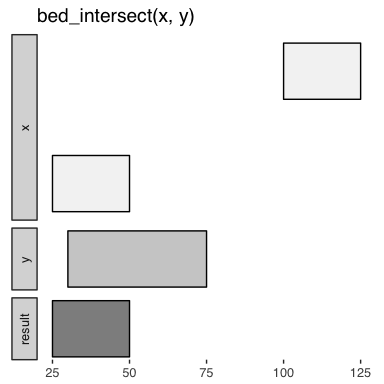
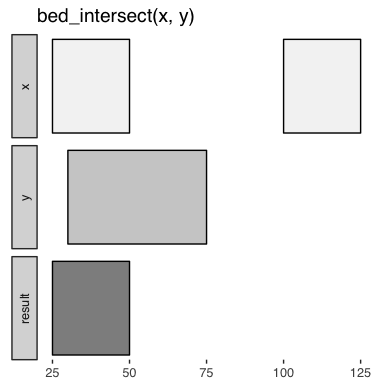
update README and site [ci skip]

diff --git a/docs/index.html b/docs/index.html
@@ -93,10 +93,10 @@ devtools<span class="op">::</span><span class="kw">install_github</span>(<span c
 <a href="#why-valr" class="anchor"></a>Why <code>valr</code>?</h2>
 <p><strong>Why another tool set for interval manipulations?</strong> Based on our experience teaching genome analysis, we were motivated to develop interval arithmetic software that faciliates genome analysis in a single environment (RStudio), eliminating the need to master both command-line and exploratory analysis tools.</p>
 <p><strong>Note:</strong> <code>valr</code> can currently be used for analysis of pre-processed data in BED and related formats. We plan to support BAM and VCF files soon via tabix indexes.</p>
-<div id="familiar-tools-all-within-r" class="section level3">
+<div id="familiar-tools-natively-in-r" class="section level3">
 <h3 class="hasAnchor">
-<a href="#familiar-tools-all-within-r" class="anchor"></a>Familiar tools, all within R</h3>
-<p>The functions in <code>valr</code> have similar names to their <code>BEDtools</code> counterparts, and so will be familiar to users coming from the <code>BEDtools</code> suite. Similar to <a href="https://daler.github.io/pybedtools/#why-pybedtools"><code>pybedtools</code></a>, <code>valr</code> has a terse syntax:</p>
+<a href="#familiar-tools-natively-in-r" class="anchor"></a>Familiar tools, natively in R</h3>
+<p>The functions in <code>valr</code> have similar names to their <code>BEDtools</code> counterparts, and so will be familiar to users coming from the <code>BEDtools</code> suite. Unlike other tools that wrap <code>BEDtools</code> and write temporary files to disk, <code>valr</code> tools run natively in memory. Similar to <a href="https://daler.github.io/pybedtools/#why-pybedtools"><code>pybedtools</code></a>, <code>valr</code> has a terse syntax:</p>
 <div class="sourceCode"><pre class="sourceCode r"><code class="sourceCode r"><span class="kw">library</span>(valr)
 <span class="kw">library</span>(dplyr)
 
@@ -110,12 +110,40 @@ nearby &lt;-<span class="st"> </span><span class="kw"><a href="reference/bed_clo
 
 nearby <span class="op">%&gt;%</span>
 <span class="st">  </span><span class="kw">select</span>(<span class="kw">starts_with</span>(<span class="st">'name'</span>), .overlap, .dist) <span class="op">%&gt;%</span>
-<span class="st">  </span><span class="kw">filter</span>(<span class="kw">abs</span>(.dist) <span class="op">&lt;</span><span class="st"> </span><span class="dv">5000</span>)</code></pre></div>
+<span class="st">  </span><span class="kw">filter</span>(<span class="kw">abs</span>(.dist) <span class="op">&lt;</span><span class="st"> </span><span class="dv">5000</span>)
+<span class="co">#&gt; # A tibble: 1,047 x 4</span>
+<span class="co">#&gt;         name.x   name.y .overlap .dist</span>
+<span class="co">#&gt;          &lt;chr&gt;    &lt;chr&gt;    &lt;int&gt; &lt;int&gt;</span>
+<span class="co">#&gt;  1 rs530458610    P704P        0  2578</span>
+<span class="co">#&gt;  2   rs2261631    P704P        0  -267</span>
+<span class="co">#&gt;  3 rs570770556    POTEH        0  -912</span>
+<span class="co">#&gt;  4 rs538163832    POTEH        0  -952</span>
+<span class="co">#&gt;  5 rs190224195    POTEH        0 -1398</span>
+<span class="co">#&gt;  6   rs2379966 DQ571479        0  4749</span>
+<span class="co">#&gt;  7 rs142687051 DQ571479        0  3557</span>
+<span class="co">#&gt;  8 rs528403095 DQ571479        0  3308</span>
+<span class="co">#&gt;  9 rs555126291 DQ571479        0  2744</span>
+<span class="co">#&gt; 10   rs5747567 DQ571479        0 -1777</span>
+<span class="co">#&gt; # ... with 1,037 more rows</span></code></pre></div>
 </div>
 <div id="visual-documentation" class="section level3">
 <h3 class="hasAnchor">
 <a href="#visual-documentation" class="anchor"></a>Visual documentation</h3>
 <p><code>valr</code> includes helpful glyphs to illustrate the results of specific operations, similar to those found in the <code>BEDtools</code> documentation. For example, <code><a href="reference/bed_glyph.html">bed_glyph()</a></code> illustrates the result of intersecting <code>x</code> and <code>y</code> intervals with <code><a href="reference/bed_intersect.html">bed_intersect()</a></code>:</p>
+<div class="sourceCode"><pre class="sourceCode r"><code class="sourceCode r"><span class="kw">library</span>(valr)
+
+x &lt;-<span class="st"> </span>valr<span class="op">::</span><span class="kw"><a href="reference/trbl_interval.html">trbl_interval</a></span>(
+  <span class="op">~</span>chrom, <span class="op">~</span>start, <span class="op">~</span>end,
+  <span class="st">'chr1'</span>, <span class="dv">25</span>,     <span class="dv">50</span>,
+  <span class="st">'chr1'</span>, <span class="dv">100</span>,    <span class="dv">125</span>
+)
+
+y &lt;-<span class="st"> </span>valr<span class="op">::</span><span class="kw"><a href="reference/trbl_interval.html">trbl_interval</a></span>(
+  <span class="op">~</span>chrom, <span class="op">~</span>start, <span class="op">~</span>end,
+  <span class="st">'chr1'</span>, <span class="dv">30</span>,     <span class="dv">75</span>
+)
+
+<span class="kw"><a href="reference/bed_glyph.html">bed_glyph</a></span>(<span class="kw"><a href="reference/bed_intersect.html">bed_intersect</a></span>(x, y))</code></pre></div>
 <p><img src="img/README-intersect_glyph-1.png" width="384" style="display: block; margin: auto;"></p>
 </div>
 <div id="reproducible-reports" class="section level3">
@@ -212,7 +240,7 @@ ucsc &lt;-<span class="st"> </span><span class="kw"><a href="reference/db.html">
 <a href="#related-work" class="anchor"></a>Related work</h2>
 <ul>
 <li><p>Command-line tools <a href="http://bedtools.readthedocs.org/en/latest/">BEDtools</a> and <a href="http://bedops.readthedocs.org/en/latest/index.html">bedops</a>.</p></li>
-<li><p>The Python library <a href="https://pythonhosted.org/pybedtools/">pybedtools</a> wraps BEDtools.</p></li>
+<li><p>The Python library <a href="https://daler.github.io/pybedtools/">pybedtools</a> wraps BEDtools.</p></li>
 <li><p>The R packages <a href="https://bioconductor.org/packages/release/bioc/html/GenomicRanges.html">GenomicRanges</a>, <a href="https://CRAN.R-project.org/package=bedr">bedr</a>, <a href="https://bioconductor.org/packages/release/bioc/html/IRanges.html">IRanges</a> and <a href="http://journals.plos.org/ploscompbiol/article?id=10.1371/journal.pcbi.1002529">GenometriCorr</a> provide similar capability with a different philosophy.</p></li>
 </ul>
 </div>
@@ -245,8 +273,8 @@ ucsc &lt;-<span class="st"> </span><span class="kw"><a href="reference/db.html">
 <li><a href="https://travis-ci.org/rnabioco/valr"><img src="https://travis-ci.org/rnabioco/valr.svg?branch=master" alt="Build Status"></a></li>
 <li><a href="https://ci.appveyor.com/project/jayhesselberth/valr"><img src="https://ci.appveyor.com/api/projects/status/github/rnabioco/valr?branch=master&amp;svg=true" alt="AppVeyor Build Status"></a></li>
 <li><a href="https://codecov.io/github/rnabioco/valr?branch=master"><img src="https://img.shields.io/codecov/c/github/rnabioco/valr/master.svg" alt="Coverage Status"></a></li>
-<li><a href="http://www.r-pkg.org/pkg/valr"><img src="http://www.r-pkg.org/badges/version/valr"></a></li>
-<li><a href="https://CRAN.R-project.org/package=valr"><img src="http://cranlogs.r-pkg.org/badges/valr?color=FFD700"></a></li>
+<li><a href="https://CRAN.R-project.org/package=valr"><img src="http://www.r-pkg.org/badges/version/valr"></a></li>
+<li><a href="http://www.r-pkg.org/pkg/valr"><img src="http://cranlogs.r-pkg.org/badges/valr?color=FFD700"></a></li>
 </ul>
 </div>
 

diff --git a/docs/news/index.html b/docs/news/index.html
@@ -107,13 +107,6 @@
 <li><p>Speed-ups in <code><a href="../reference/bed_makewindows.html">bed_makewindows()</a></code> (~50x), <code><a href="../reference/bed_merge.html">bed_merge()</a></code> (~4x), and <code><a href="../reference/bed_flank.html">bed_flank()</a></code> (~4x) (thanks to @kriemo and @sheridar). Thanks to the sponsors of the <a href="https://hackathon.colorado.edu/">Biofrontiers Hackathon</a> for the caffeine underlying these improvements.</p></li>
 </ul>
 </div>
-<div id="minor-changes" class="section level2">
-<h2 class="hasAnchor">
-<a href="#minor-changes" class="anchor"></a>Minor changes</h2>
-<ul>
-<li>provide <code>broom::tidy</code> compatibility functions to remove broom dependency.</li>
-</ul>
-</div>
 <div id="bug-fixes" class="section level2">
 <h2 class="hasAnchor">
 <a href="#bug-fixes" class="anchor"></a>Bug fixes</h2>
@@ -134,9 +127,9 @@
 <li><p>new <code><a href="../reference/tbl_interval.html">tbl_interval()</a></code> and <code><a href="../reference/tbl_genome.html">tbl_genome()</a></code> that wrap tibbles and enforce strict column naming. <code><a href="../reference/trbl_interval.html">trbl_interval()</a></code> and <code><a href="../reference/trbl_genome.html">trbl_genome()</a></code> are constructors that take <code>tibble::tribble()</code> formatting and <code><a href="../reference/is.tbl_interval.html">is.tbl_interval()</a></code> and <code><a href="../reference/is.tbl_genome.html">is.tbl_genome()</a></code> are used to check for valid classes.</p></li>
 </ul>
 </div>
-<div id="minor-changes-1" class="section level2">
+<div id="minor-changes" class="section level2">
 <h2 class="hasAnchor">
-<a href="#minor-changes-1" class="anchor"></a>Minor changes</h2>
+<a href="#minor-changes" class="anchor"></a>Minor changes</h2>
 <ul>
 <li>intervals returned from <code><a href="../reference/bed_random.html">bed_random()</a></code> are sorted by <code>chrom</code> and <code>start</code> by default.</li>
 </ul>
@@ -159,9 +152,9 @@
 <li>Deprecate <code><a href="../reference/bed_sort.html">bed_sort()</a></code> in favor of using <code>dplyr::arrange()</code> explicitly (fixes #134).</li>
 </ul>
 </div>
-<div id="minor-changes-2" class="section level2">
+<div id="minor-changes-1" class="section level2">
 <h2 class="hasAnchor">
-<a href="#minor-changes-2" class="anchor"></a>Minor changes</h2>
+<a href="#minor-changes-1" class="anchor"></a>Minor changes</h2>
 <ul>
 <li><p>add <code>src/init.c</code> that calls <code>R_registerRoutines</code> and <code>R_useDynamicSymbols</code> to address NOTE in r-devel</p></li>
 <li><p>Deprecate <code>dist</code> parameter in <code><a href="../reference/bed_closest.html">bed_closest()</a></code> in favor of using user supplied functions (#182 @kriemo)</p></li>
@@ -183,9 +176,9 @@
     <div id="valr-0-1-1" class="section level1">
 <h1 class="hasAnchor">
 <a href="#valr-0-1-1" class="anchor"></a>valr 0.1.1</h1>
-<div id="minor-changes-3" class="section level2">
+<div id="minor-changes-2" class="section level2">
 <h2 class="hasAnchor">
-<a href="#minor-changes-3" class="anchor"></a>Minor changes</h2>
+<a href="#minor-changes-2" class="anchor"></a>Minor changes</h2>
 <ul>
 <li><p>test / vignette guards for Suggested RMySQL</p></li>
 <li><p>fixed memory leak in absdist.cpp</p></li>

diff --git a/README.md b/README.md
@@ -2,7 +2,7 @@
 valr <img src="man/figures/logo.png" align="right" />
 =====================================================
 
-[![Build Status](https://travis-ci.org/rnabioco/valr.svg?branch=master)](https://travis-ci.org/rnabioco/valr) [![AppVeyor Build Status](https://ci.appveyor.com/api/projects/status/github/rnabioco/valr?branch=master&svg=true)](https://ci.appveyor.com/project/jayhesselberth/valr) [![Coverage Status](https://img.shields.io/codecov/c/github/rnabioco/valr/master.svg)](https://codecov.io/github/rnabioco/valr?branch=master) [![](http://www.r-pkg.org/badges/version/valr)](http://www.r-pkg.org/pkg/valr) [![](http://cranlogs.r-pkg.org/badges/valr?color=FFD700)](https://CRAN.R-project.org/package=valr)
+[![Build Status](https://travis-ci.org/rnabioco/valr.svg?branch=master)](https://travis-ci.org/rnabioco/valr) [![AppVeyor Build Status](https://ci.appveyor.com/api/projects/status/github/rnabioco/valr?branch=master&svg=true)](https://ci.appveyor.com/project/jayhesselberth/valr) [![Coverage Status](https://img.shields.io/codecov/c/github/rnabioco/valr/master.svg)](https://codecov.io/github/rnabioco/valr?branch=master) [![](http://www.r-pkg.org/badges/version/valr)](https://CRAN.R-project.org/package=valr) [![](http://cranlogs.r-pkg.org/badges/valr?color=FFD700)](http://www.r-pkg.org/pkg/valr)
 
 **`valr` provides tools to read and manipulate genome intervals and signals**, similar to the [`BEDtools`](http://bedtools.readthedocs.org/en/latest/) suite. `valr` enables analysis in the R/RStudio environment, leveraging modern R tools in the [`tidyverse`](http://tidyverse.org) for a terse, expressive syntax. Compute-intensive algorithms are implemented in [`Rcpp`](http://www.rcpp.org/)/C++, and many methods take advantage of the speed and grouping capability provided by [`dplyr`](https://github.com/hadley/dplyr).
 
@@ -29,9 +29,9 @@ Why `valr`?
 
 **Note:** `valr` can currently be used for analysis of pre-processed data in BED and related formats. We plan to support BAM and VCF files soon via tabix indexes.
 
-### Familiar tools, all within R
+### Familiar tools, natively in R
 
-The functions in `valr` have similar names to their `BEDtools` counterparts, and so will be familiar to users coming from the `BEDtools` suite. Similar to [`pybedtools`](https://daler.github.io/pybedtools/#why-pybedtools), `valr` has a terse syntax:
+The functions in `valr` have similar names to their `BEDtools` counterparts, and so will be familiar to users coming from the `BEDtools` suite. Unlike other tools that wrap `BEDtools` and write temporary files to disk, `valr` tools run natively in memory. Similar to [`pybedtools`](https://daler.github.io/pybedtools/#why-pybedtools), `valr` has a terse syntax:
 
 ``` r
 library(valr)
@@ -48,20 +48,36 @@ nearby <- bed_closest(intergenic, genes)
 nearby %>%
   select(starts_with('name'), .overlap, .dist) %>%
   filter(abs(.dist) < 5000)
+#> # A tibble: 1,047 x 4
+#>         name.x   name.y .overlap .dist
+#>          <chr>    <chr>    <int> <int>
+#>  1 rs530458610    P704P        0  2578
+#>  2   rs2261631    P704P        0  -267
+#>  3 rs570770556    POTEH        0  -912
+#>  4 rs538163832    POTEH        0  -952
+#>  5 rs190224195    POTEH        0 -1398
+#>  6   rs2379966 DQ571479        0  4749
+#>  7 rs142687051 DQ571479        0  3557
+#>  8 rs528403095 DQ571479        0  3308
+#>  9 rs555126291 DQ571479        0  2744
+#> 10   rs5747567 DQ571479        0 -1777
+#> # ... with 1,037 more rows
 ```
 
 ### Visual documentation
 
-`valr` includes helpful glyphs to illustrate the results of specific operations, similar to those found in the `BEDtools` documentation. For example, `bed_glyph()` can be used to illustrate result of intersecting `x` and `y` intervals with `bed_intersect()`:
+`valr` includes helpful glyphs to illustrate the results of specific operations, similar to those found in the `BEDtools` documentation. For example, `bed_glyph()` illustrates the result of intersecting `x` and `y` intervals with `bed_intersect()`:
 
 ``` r
-x <- trbl_interval(
+library(valr)
+
+x <- valr::trbl_interval(
   ~chrom, ~start, ~end,
   'chr1', 25,     50,
   'chr1', 100,    125
 )
 
-y <- trbl_interval(
+y <- valr::trbl_interval(
   ~chrom, ~start, ~end,
   'chr1', 30,     75
 )
@@ -69,9 +85,21 @@ y <- trbl_interval(
 bed_glyph(bed_intersect(x, y))
 ```
 
+<img src="img/README-intersect_glyph-1.png" style="display: block; margin: auto;" />
+
 ### Reproducible reports
 
-`valr` can be used in RMarkdown documents to generate reproducible work-flows for data processing. Because `valr` is reasonably fast, it can be for exploratory analysis with `RMarkdown`, and for interactive analysis using `shiny`.
+`valr` can be used in RMarkdown documents to generate reproducible work-flows for data processing. Because computations in `valr` are fast, it can be for exploratory analysis with `RMarkdown`, and for interactive analysis using `shiny`.
+
+### Remote databases
+
+Remote databases can be accessed with `db_ucsc()` (to access the UCSC Browser) and `db_ensembl()` (to access Ensembl databases).
+
+``` r
+# access the `refGene` tbl on the `hg38` assembly
+ucsc <- db_ucsc('hg38')
+tbl(ucsc, 'refGene')
+```
 
 API
 ---
@@ -100,7 +128,7 @@ Function names are similar to their their [BEDtools](http://bedtools.readthedocs
 
 -   Intervals not covered by a query are created with `bed_complement()`.
 
--   Intervals are ordered with `dplyr::arrange()`.
+-   Intervals can be ordered with `dplyr::arrange()`.
 
 ### Comparing multiple interval sets
 
@@ -151,6 +179,6 @@ Related work
 
 -   Command-line tools [BEDtools](http://bedtools.readthedocs.org/en/latest/) and [bedops](http://bedops.readthedocs.org/en/latest/index.html).
 
--   The Python library [pybedtools](https://pythonhosted.org/pybedtools/) wraps BEDtools.
+-   The Python library [pybedtools](https://daler.github.io/pybedtools/) wraps BEDtools.
 
 -   The R packages [GenomicRanges](https://bioconductor.org/packages/release/bioc/html/GenomicRanges.html), [bedr](https://CRAN.R-project.org/package=bedr), [IRanges](https://bioconductor.org/packages/release/bioc/html/IRanges.html) and [GenometriCorr](http://journals.plos.org/ploscompbiol/article?id=10.1371/journal.pcbi.1002529) provide similar capability with a different philosophy.
